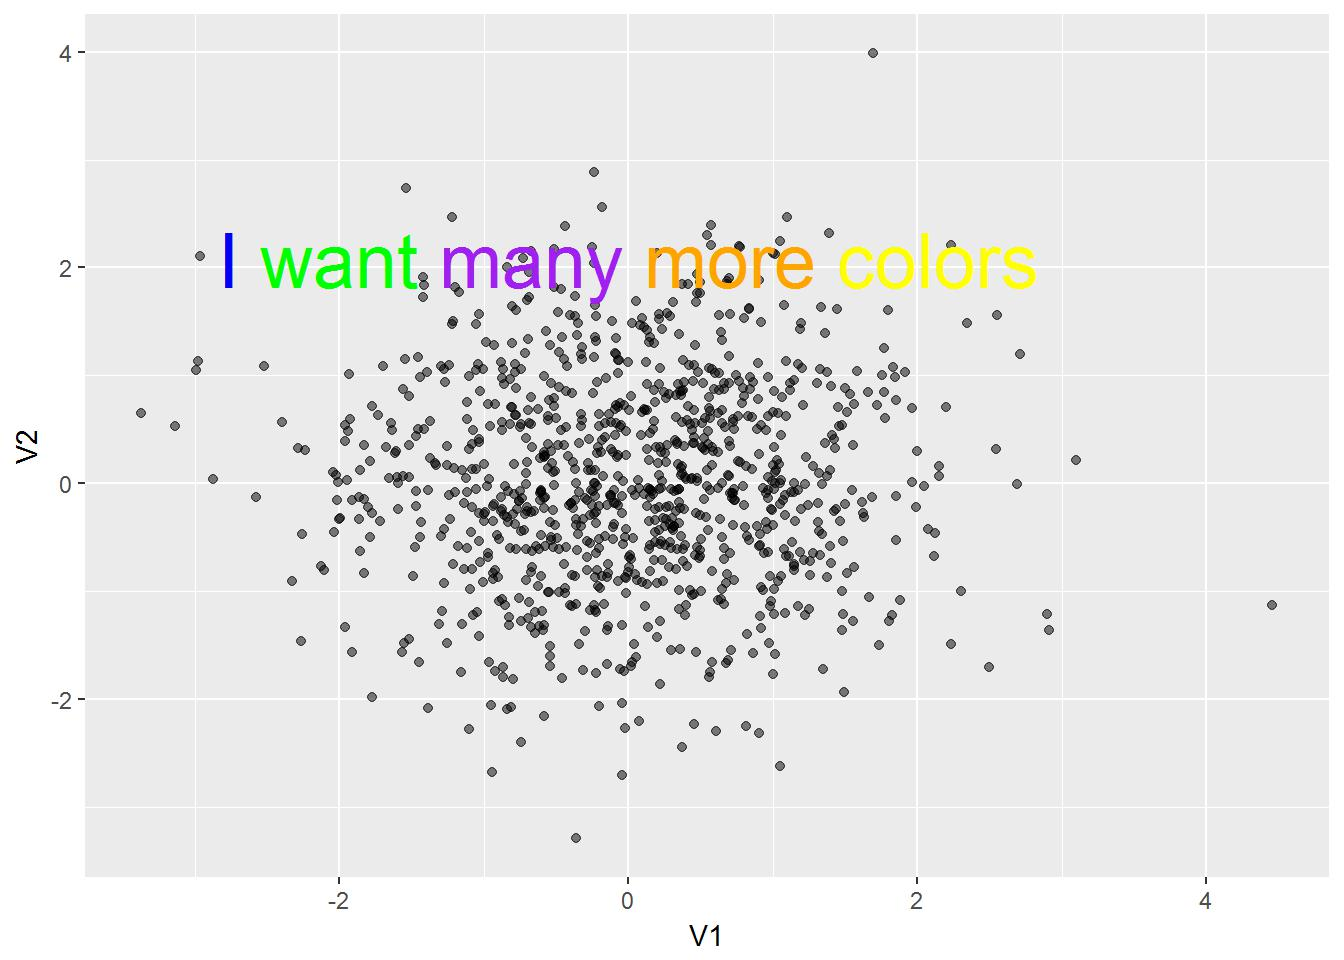
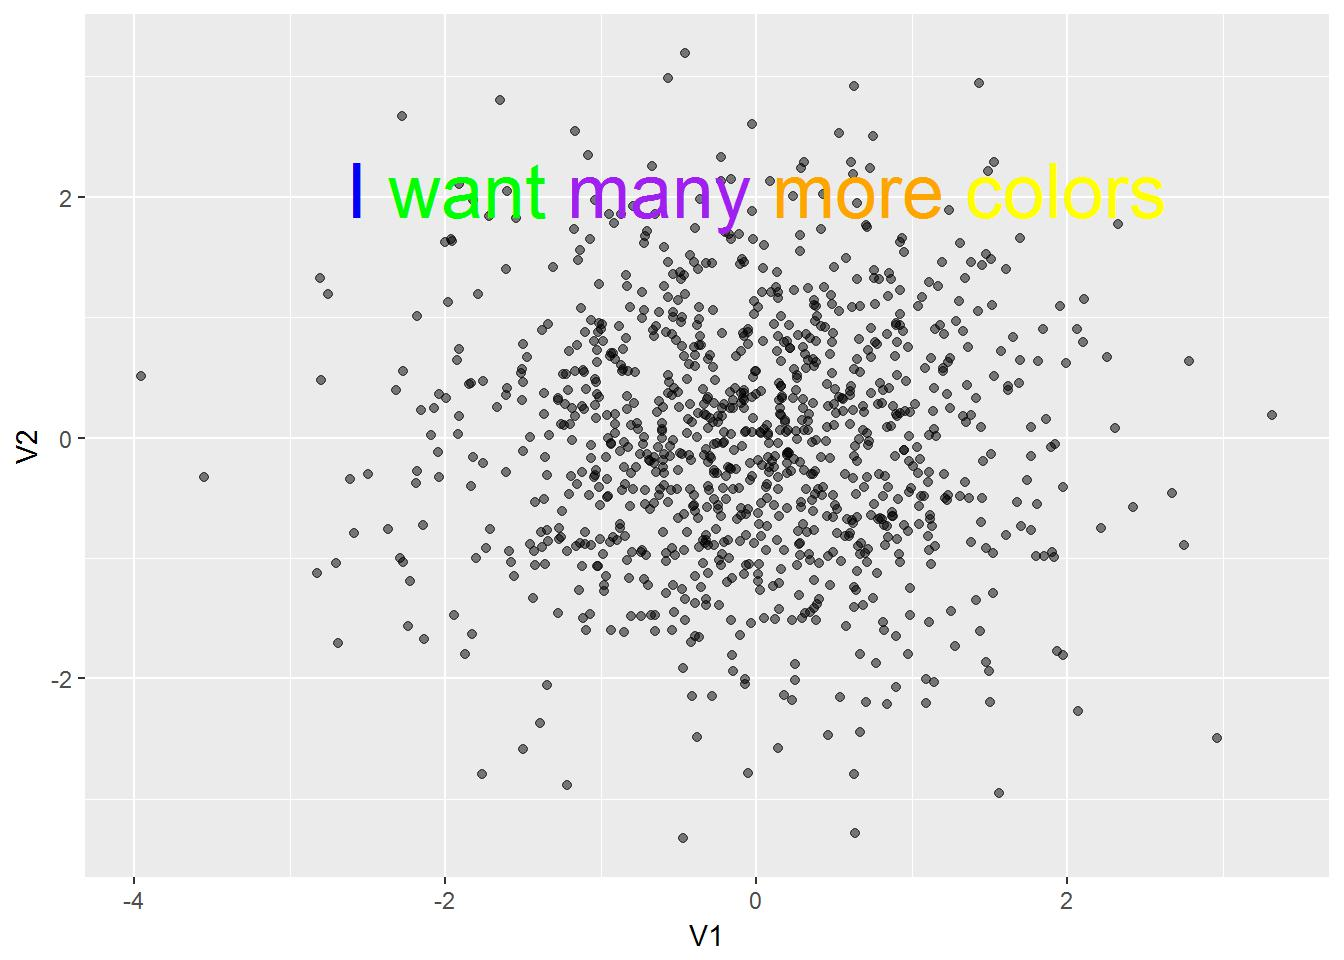
Update

diff --git a/content/post/2017-10-20-colorful-plot-annotations.html b/content/post/2017-10-20-colorful-plot-annotations.html
@@ -1,0 +1,142 @@
+---
+title: Colorful plot annotations
+author: Chris Peralta
+date: '2017-10-20'
+slug: colorful-plot-annotations
+categories:
+  - R
+tags:
+  - ggplot2
+description: ''
+output: md_document
+---
+
+
+
+<p><br></p>
+<p>If you want to go straight to the function, you can find it at the bottom of the page.</p>
+<p>While working on a data visualization project, I discovered that ggplot2 does not allow for easy multicolor plot annoations. So after some searching I discovered <a href="https://andrewwhitby.com/2017/09/18/multi-color-text-ggplot2/comment-page-1/#comment-7400">this post from Andrew Whitby’s blog</a>. His method is to overlay multiple annotate() functions with plotmath components to hide the parts of strings to allow the strings to overlap. This method requires the text to be formatted as shown below:</p>
+<pre class="r"><code>annotate(&#39;text&#39;, x = 3, y = .03, parse = T,label = &#39;&quot;I &quot; * phantom(&quot;want many more colors&quot;)&#39;, color = &#39;grey&#39;) + 
+annotate(&#39;text&#39;, x = 3, y = .03, parse = T,label = &#39;phantom(&quot;I &quot;) * &quot;want&quot; * phantom(&quot;many more colors&quot;)&#39;, color = &#39;blue&#39;) +
+annotate(&#39;text&#39;, x = 3, y = .03, parse = T,label = &#39;phantom(&quot;I want &quot;) * &quot;many&quot; * phantom(&quot;more colors&quot;)&#39;, color = &#39;green&#39;) +
+annotate(&#39;text&#39;, x = 3, y = .03, parse = T,label = &#39;phantom(&quot;I want many &quot;) * &quot;more&quot; * phantom(&quot;colors&quot;)&#39;, color = &#39;purple&#39;) +
+annotate(&#39;text&#39;, x = 3, y = .03, parse = T,label = &#39;phantom(&quot;I want many more &quot;) * &quot;colors&quot;&#39;, color = &#39;orange&#39;) </code></pre>
+<p><br></p>
+<p>This code hides the word that isn’t being passed through phantom() and will color it. Then, it stacks the labels onto each other and prints them on the plot. The huge downside of this method is that it is very labor instensive and requires very specific formatting. So I decided to write a function that writes all of the annotate() functions for me.</p>
+<p>The function, annotate_color(), takes its arguments in the same order as annotate function and to call the same set of functions you would just type:</p>
+<pre class="r"><code>annotate_color(x = 3, y = .03, 
+               labels = &#39;I want many more colors&#39;,
+               colors = c(&#39;blue&#39;, &#39;green&#39;, &#39;purple&#39;, &#39;orange&#39;, &#39;yellow&#39;))</code></pre>
+<p><br></p>
+<p>Both of these blocks of code would evaluate to something like this:</p>
+<p><img src="/post/2017-10-20-colorful-plot-annotations_files/figure-html/plotexample-1.jpeg" width="672" /></p>
+<p>Hopefully, you won’t actually use it to create a graph that looks like that as it is quite ugly.<br />
+This is an example of how it could be better used.</p>
+<p><img src="/post/2017-10-20-colorful-plot-annotations_files/figure-html/goodexample-1.jpeg" width="672" /></p>
+<p><br></p>
+<div id="input-methods" class="section level3">
+<h3>Input methods</h3>
+<pre class="r"><code># Make or import your data
+data &lt;- as.tibble(replicate(10, rnorm(1000))) 
+
+
+# Assigning a color for each word
+data %&gt;% 
+  ggplot(aes(x = V1, y = V2)) + 
+  geom_point() + 
+  annotate_color(x = 0, y = 2.7, size = 6,
+                 labels = &#39;Assign different colors for each word&#39;,
+                 colors = c(&#39;blue&#39;, &#39;green&#39;, &#39;purple&#39;, &#39;orange&#39;, &#39;black&#39;, &#39;yellow&#39;))
+
+
+# Assigning a color for only one word in a string
+data %&gt;% 
+  ggplot(aes(x = V1, y = V2)) + 
+  geom_point() + 
+  annotate_color(x = 0, y = 2.7, default_color = &#39;black&#39;,
+                 labels = &#39;Assign different colors for one word&#39;,
+                 colors = c(&#39;&#39;, &#39;&#39;, &#39;red&#39;)) # You must assign strings before the target word you want to color...
+                                            # ... as words are colored in the order you type them
+
+#  Assigning colors for first and last words
+data %&gt;% 
+  ggplot(aes(x = V1, y = V2)) + 
+  geom_point() + 
+  annotate_color(x = 0, y = 2.7, default_color = &#39;purple&#39;, #
+                 labels = &#39;Assign different colors for the first and last words&#39;,
+                 colors = c(&#39;red&#39;, &#39;&#39;, &#39;&#39;, &#39;&#39;, &#39;&#39;, &#39;&#39;, &#39;&#39;, &#39;&#39;, &#39;blue&#39;)) 
+
+
+# Coloring only the first word and all of the following words the same color. 
+data %&gt;% 
+  ggplot(aes(x = V1, y = V2)) + 
+  geom_point() + 
+  annotate_color(x = 0, y = 2.7, default_color = &#39;Grey30&#39;,
+                 labels = &#39;Assign different colors for one word&#39;,
+                 colors = c(&#39;red&#39;))
+
+
+### Notes
+# You can pass every argument that annotate() will accept into annotate_color().
+# The default geom type for annotate_color() is text, you can change it to any other geom that has a...
+# ... &#39;label&#39; and a &#39;color&#39;argument.
+# &#39;black&#39; is the default value for &#39;default_color&#39;</code></pre>
+<p><br></p>
+</div>
+<div id="the-function" class="section level3">
+<h3>The function</h3>
+<pre class="r"><code>## This function will allow you to assign color to each word in a plot annotation
+# Dependencies: purrr, ggplot2
+
+annotate_color &lt;- function(geom = &#39;text&#39;, x = NULL, y = NULL, xmin = NULL, xmax = NULL,  
+                           ymin = NULL, ymax = NULL, xend = NULL, yend = NULL, ...,
+                           labels = NULL, colors = NULL, default_color = &#39;black&#39;){
+  
+  # Checks for essential arguments
+  if (is.null(colors) || is.null(x) || is.null(y) || is.null(labels)){
+    stop(&#39;Missing one of the arguments: labels, colors, x, or y&#39;)}
+  
+  
+  labels &lt;- strsplit(labels, &quot; &quot;)[[1]] 
+  n &lt;- length(labels)
+  
+  if (length(colors) &lt; length(labels)){   # Assigns any empty values in &#39;colors&#39; to the &#39;default_color&#39; 
+    colors &lt;- map_chr(seq_len(length(labels)), function(i){
+        if (is.na(colors[i]) | colors[i] == &#39;&#39;){
+          colors[i] &lt;- default_color
+        } else {colors[i] &lt;- colors [i]}}
+     )
+  }
+  
+  if (length(colors) &gt; length(labels)){   # Shortens the length of &#39;colors&#39; to match the length of &#39;labels&#39;
+    colors = colors[1:length(labels)]
+    warning(&#39;The length of the colors arg is longer than the number of words in the labels arg. Extra colors will be ignored.&#39;)
+  }
+  
+   # Formats the labels argument into usable arguments for each annotation function
+    labels &lt;- map_chr(seq_len(n), function(i) {  
+      start0 &lt;- labels[seq_along(labels) &lt; i]    # Assigns the first part of the string 
+      mid0 &lt;- labels[i]                          # Assigns a single word 
+      end0 &lt;- labels[seq_along(labels) &gt; i]      # Assigns the last part of the string
+      start &lt;- paste0(&#39;phantom(&quot;&#39;, paste(start0, collapse = &quot; &quot;), &#39; &quot;)&#39;) # Wraps phantom() around the first part 
+      end &lt;- paste0(&#39;phantom(&quot;&#39;, paste(end0, collapse = &quot; &quot;), &#39; &quot;)&#39;) # Wraps phantom() around the last part
+      if(length(start0) &gt; 0 &amp;&amp; length(end0) &gt; 0) {  # Conditional statements for the formatting depending...
+        paste(start, paste0(&#39;&quot;&#39;, paste(mid0, collapse = &quot; &quot;), &#39;&quot;&#39;), end, sep = &#39; * &#39;) # ... on the position of &#39;mid0&#39;
+      } else if (length(end0) &gt; 0) {
+        paste(paste0(&#39;&quot;&#39;, paste(mid0, collapse = &quot; &quot;), &#39;&quot;&#39;), end, sep = &#39; * &#39;)
+      } else if (length(start0) &gt; 0) {
+        paste(start, paste0(&#39;&quot;&#39;, paste(mid0, collapse = &quot; &quot;), &#39;&quot;&#39;), sep = &#39; * &#39;)
+      } else {
+        stop(&quot;couldn&#39;t finish ...&quot;)
+      } # Anonymous function above created with the assistance of
+    })  # https://stackoverflow.com/users/3521006/docendo-discimus
+  
+  # Plugs all arguments into the annotate() function and stores them into a list
+  annofuncs &lt;- list()
+  annofuncs &lt;- map2(labels, colors, function(annolabel, annocolor){
+    annofuncs[seq_along(annolabel)] &lt;- list(annotate(geom, x, y, xmin, xmax, ymin, ymax, xend, yend, ...,
+                                         parse = T, label = annolabel, color = annocolor))
+  })
+  return(annofuncs) # Returns the list which can be added to a ggplot like any other layer
+}</code></pre>
+</div>
